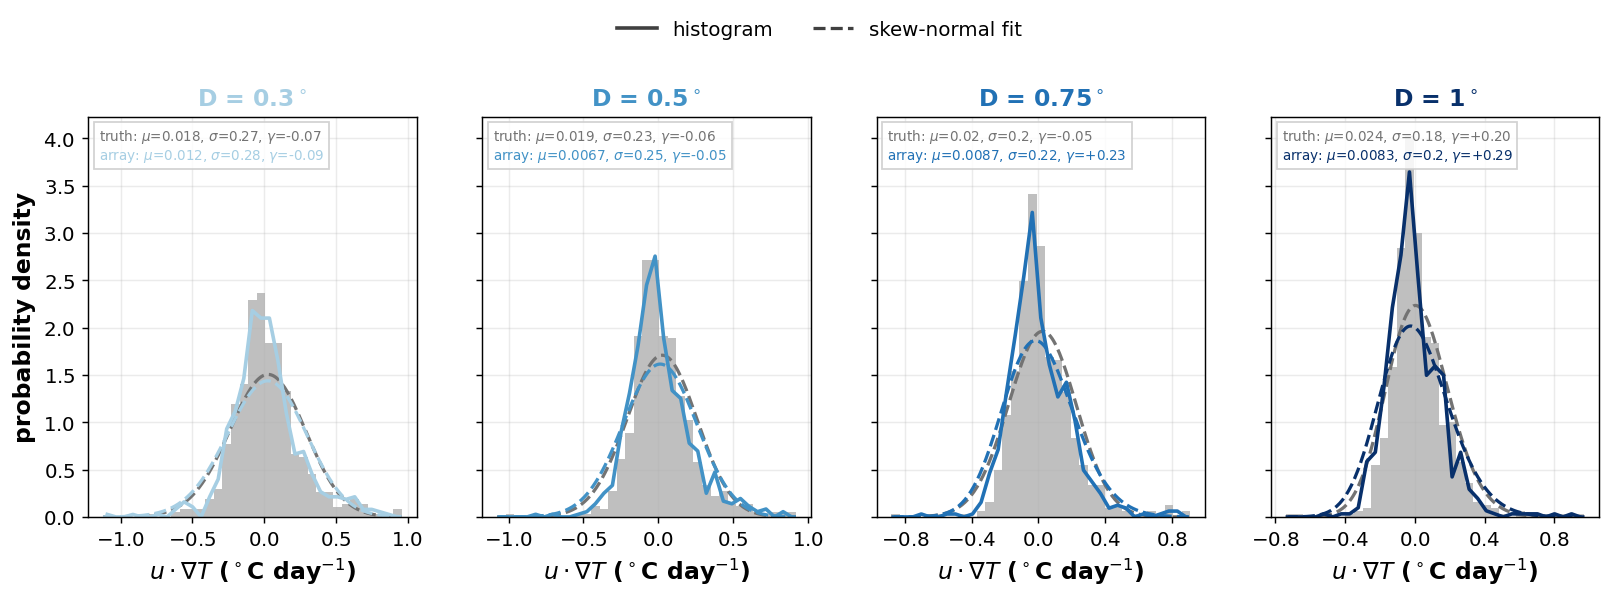
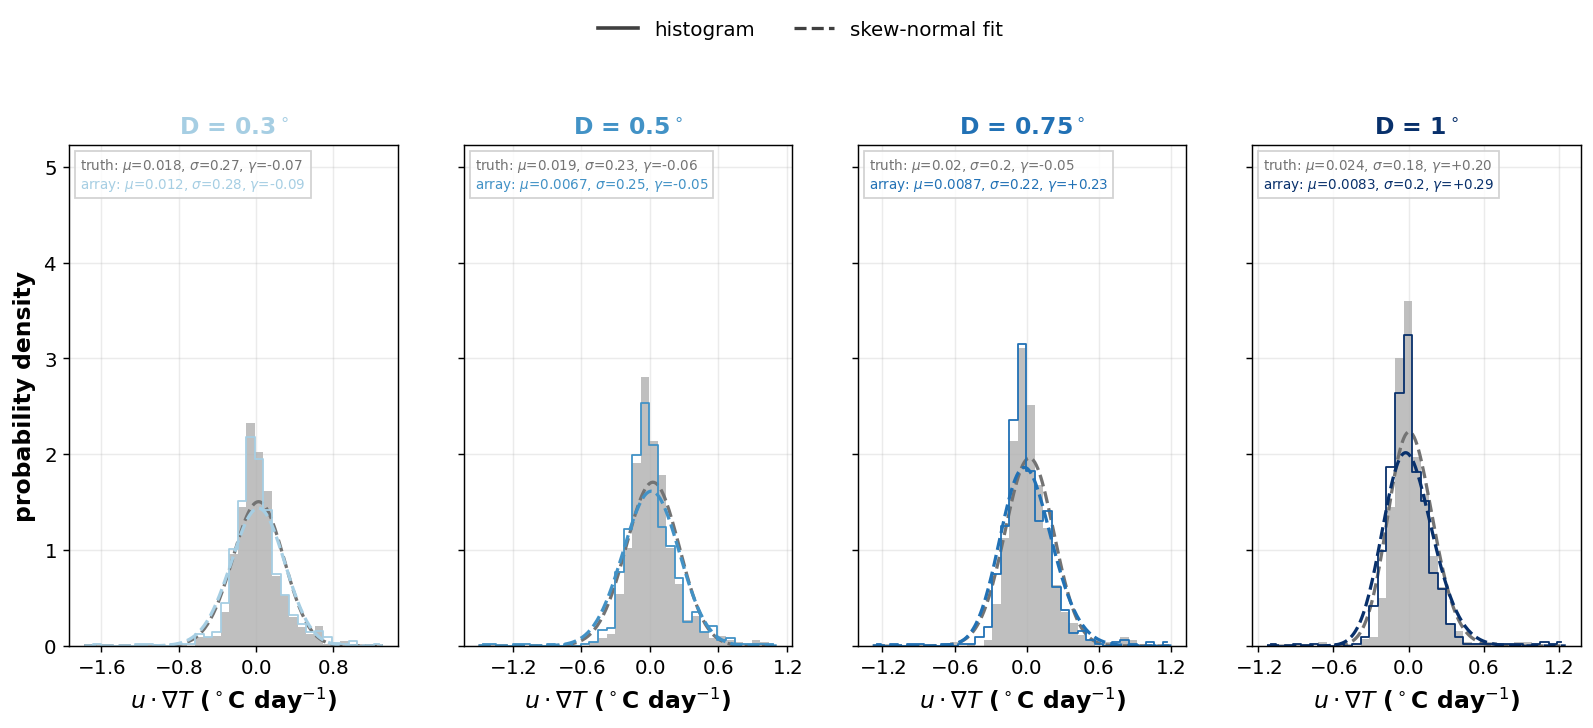
updating pdf figures

Changed region(s): [[0.0, 0.1503, 1.0, 0.9917], [0.3691, 0.0301, 0.646, 0.0601]]

diff --git a/sampling_dynamics_control_volume/run_pdfs.py b/sampling_dynamics_control_volume/run_pdfs.py
@@ -12,7 +12,8 @@ Per shape (distributions/<shape>/):
 
 Cross-shape (distributions/compare/):
   convergence.png                 JS(obs,truth) vs D, one line per SHAPE, for w and heat flux.
-  w_pdfs.png / heating_pdfs.png   truth + one fit per shape, one panel per D.
+  w_pdfs.png                      truth + one fit per shape, one panel per D.
+  heating_{horiz,vert,total}_pdfs.png  same, one figure per advective-heating component.
 """
 
 import os
@@ -48,13 +49,14 @@ def _face(ds, which, f, z):
 # ---------------------------------------------------------------- per-shape: w / hflux PDFs
 def fig_series_pdfs(out, shape, kind, z, unit, fname, scale=1.0):
     getter = _getter(kind)
-    fig, axes = plt.subplots(1, len(C.DIAMETERS), figsize=(15, 4), sharey=True)
+    fig, axes = plt.subplots(1, len(C.DIAMETERS), figsize=(15, 5), sharey=True)
     for ax, d in zip(np.ravel(axes), C.DIAMETERS):
         ds = P.load_ocv(d, shape)
         series = [('truth', getter(ds, 'true', z) * scale, TRUTH_COL),
                   ('array', getter(ds, 'obs', z) * scale, C.diam_color(d))]
         P.series_pdf_panel(ax, series, unit)
         ax.set_title(f'D = {d:g}$^\\circ$', color=C.diam_color(d))
+    P.raise_pdf_headroom(axes, n_series=2)
     axes[0].set_ylabel('probability density')
     fig.legend(handles=_STYLE, loc='upper center', ncol=2, frameon=False,
                bbox_to_anchor=(0.5, 1.10))
@@ -86,7 +88,7 @@ def fig_volmean(out, shape, z, tag):
     specs = [('T', '$^\\circ$C'), ('S', 'g kg$^{-1}$'),
              ('U', 'm s$^{-1}$'), ('V', 'm s$^{-1}$')]
     nrow, ncol = len(specs), len(C.DIAMETERS)
-    fig, axes = plt.subplots(nrow, ncol, figsize=(3.4 * ncol, 2.7 * nrow), squeeze=False)
+    fig, axes = plt.subplots(nrow, ncol, figsize=(3.4 * ncol, 3.2 * nrow), squeeze=False)
     for i, (v, unit) in enumerate(specs):
         for j, d in enumerate(C.DIAMETERS):
             ax = axes[i][j]
@@ -97,6 +99,7 @@ def fig_volmean(out, shape, z, tag):
             if i == 0:
                 ax.set_title(f'D = {d:g}$^\\circ$', color=C.diam_color(d))
         axes[i][0].set_ylabel(f'{v}  ({unit})')
+    P.raise_pdf_headroom(axes, n_series=2)
     fig.legend(handles=_STYLE, loc='upper center', ncol=2, frameon=False,
                bbox_to_anchor=(0.5, 1.01))
     fig.tight_layout(rect=(0, 0, 1, 0.98))
@@ -109,7 +112,7 @@ def fig_face_pdfs(out, shape, z, tag):
     nf = P.load_ocv(C.DIAMETERS[0], shape).sizes['face']
     ncol = len(C.DIAMETERS)
     unit = 'outward current (m s$^{-1}$)'
-    fig, axes = plt.subplots(nf, ncol, figsize=(3.4 * ncol, 2.5 * nf), squeeze=False)
+    fig, axes = plt.subplots(nf, ncol, figsize=(3.4 * ncol, 3.0 * nf), squeeze=False)
     for f in range(nf):
         for j, d in enumerate(C.DIAMETERS):
             ax = axes[f][j]
@@ -122,6 +125,7 @@ def fig_face_pdfs(out, shape, z, tag):
         b = np.degrees(np.arctan2(float(P.load_ocv(C.DIAMETERS[0], shape).face_lat.isel(face=f)),
                                   float(P.load_ocv(C.DIAMETERS[0], shape).face_lon.isel(face=f)) - 220))
         axes[f][0].set_ylabel(f'face {f}  ({b:+.0f}$^\\circ$)')
+    P.raise_pdf_headroom(axes, n_series=2)
     fig.legend(handles=_STYLE, loc='upper center', ncol=2, frameon=False,
                bbox_to_anchor=(0.5, 1.01))
     fig.tight_layout(rect=(0, 0, 1, 0.98))
@@ -148,17 +152,22 @@ def fig_convergence_compare(out, z=BASE):
 
 
 # ---------------------------------------------------------------- cross-shape: PDFs per D
-def fig_series_pdfs_compare(out, kind, z, unit, fname, scale=1.0):
-    getter = _getter(kind)
-    fig, axes = plt.subplots(1, len(C.DIAMETERS), figsize=(15, 4), sharey=True)
+def fig_series_pdfs_compare(out, kind, z, unit, fname, scale=1.0, comp='total'):
+    """Cross-shape temporal PDFs, one panel per D: pooled truth + one obs distribution per
+    shape. For kind='heat', `comp` selects the advective-heating component (horiz/vert/total)."""
+    def getter(ds, which):
+        return (P.heat_series(ds, which, z, comp) if kind == 'heat'
+                else _getter(kind)(ds, which, z))
+    fig, axes = plt.subplots(1, len(C.DIAMETERS), figsize=(15, 5), sharey=True)
     for ax, d in zip(np.ravel(axes), C.DIAMETERS):
         # truths across shapes nearly coincide -> pool into one reference distribution
-        pooled = np.concatenate([getter(P.load_ocv(d, s), 'true', z) for s in C.SHAPES]) * scale
+        pooled = np.concatenate([getter(P.load_ocv(d, s), 'true') for s in C.SHAPES]) * scale
         series = [('truth', pooled, TRUTH_COL)]
-        series += [(C.SHAPE_LABEL[s], getter(P.load_ocv(d, s), 'obs', z) * scale, C.SHAPE_COLOR[s])
+        series += [(C.SHAPE_LABEL[s], getter(P.load_ocv(d, s), 'obs') * scale, C.SHAPE_COLOR[s])
                    for s in C.SHAPES]
         P.series_pdf_panel(ax, series, unit)
         ax.set_title(f'D = {d:g}$^\\circ$')
+    P.raise_pdf_headroom(axes, n_series=1 + len(C.SHAPES))
     axes[0].set_ylabel('probability density')
     fig.legend(handles=_STYLE, loc='upper center', ncol=2, frameon=False,
                bbox_to_anchor=(0.5, 1.10))
@@ -178,8 +187,12 @@ def main():
     cmp = P.outdir('distributions', 'compare')
     fig_convergence_compare(cmp)
     fig_series_pdfs_compare(cmp, 'w', BASE, 'area-averaged w (m day$^{-1}$)', 'w_pdfs.png')
-    fig_series_pdfs_compare(cmp, 'heat', BASE,
-                            '$u\\cdot\\nabla T$ ($^\\circ$C day$^{-1}$)', 'heating_pdfs.png')
+    # advective-heating PDFs, one figure per component (horizontal / vertical / total)
+    for comp, sym, fn in [('horiz', 'u_h\\cdot\\nabla_h T', 'heating_horiz_pdfs.png'),
+                          ('vert', 'w\\,\\partial_z T', 'heating_vert_pdfs.png'),
+                          ('total', 'u\\cdot\\nabla T', 'heating_total_pdfs.png')]:
+        fig_series_pdfs_compare(cmp, 'heat', BASE,
+                                f'${sym}$ ($^\\circ$C day$^{{-1}}$)', fn, comp=comp)
     print('wrote distribution figures -> distributions/<shape>/ and distributions/compare/')
 
 

diff --git a/sampling_dynamics_control_volume/run_budget.py b/sampling_dynamics_control_volume/run_budget.py
@@ -26,6 +26,9 @@ HEAT_COMPS = [('horiz', 'horizontal  $u\\cdot\\nabla_h T$'),
               ('vert', 'vertical  $w\\,\\partial_z T$'),
               ('total', 'total  $u\\cdot\\nabla T$')]
 HEAT_UNIT = '$^\\circ$C day$^{-1}$'
+# W/m^2 variant: the heating RATE integrates vertically to a heat flux (rho0 cp int u.gradT dz,
+# cumulative from the 8 m top of the observed column) -- see cv_plot.adv_heating_flux_da.
+HEAT_FLUX_UNIT = 'W m$^{-2}$'
 
 
 def _profile(ds, var, which):
@@ -78,34 +81,40 @@ def fig_profiles_compare(out, var, scale, xlabel, fname):
     return P.finish(fig, os.path.join(out, fname))
 
 
-def _heat_prof(ds, which, comp):
-    m = P.adv_heating_da(ds, which, comp).mean('time')
+def _heat_prof(ds, which, comp, flux=False):
+    da = P.adv_heating_flux_da(ds, which, comp) if flux else P.adv_heating_da(ds, which, comp)
+    m = da.mean('time')
     return m.values, m['obs_depth'].values
 
 
-def fig_heating_profiles(out, shape):
+def fig_heating_profiles(out, shape, flux=False):
     """Per-shape: time-mean advective-heating profiles, one panel per component
-    (horizontal / vertical / total), all diameters overlaid (truth dotted, obs solid)."""
+    (horizontal / vertical / total), all diameters overlaid (truth dotted, obs solid).
+    flux=True -> the depth-cumulative heat flux [W/m^2] instead of the rate [degC/day]."""
+    unit = HEAT_FLUX_UNIT if flux else HEAT_UNIT
     fig, axes = plt.subplots(1, 3, figsize=(13.5, 6.2), sharey=True)
     for ax, (comp, title) in zip(axes, HEAT_COMPS):
         for d in C.DIAMETERS:
             ds = P.load_ocv(d, shape)
-            vt, z = _heat_prof(ds, 'true', comp)
-            vo, _ = _heat_prof(ds, 'obs', comp)
+            vt, z = _heat_prof(ds, 'true', comp, flux)
+            vo, _ = _heat_prof(ds, 'obs', comp, flux)
             ax.plot(vt, z, color=C.diam_color(d), **P.TRUTH_KW)
             ax.plot(vo, z, color=C.diam_color(d), **P.OBS_KW)
         ax.axvline(0, color='0.7', lw=1)
         ax.set_title(title)
-        ax.set_xlabel(HEAT_UNIT)
+        ax.set_xlabel(unit)
         P.tidy_x(ax, 4)
     axes[0].set_ylabel('depth (m)')
     P.top_legend(fig, diam=True, method=True, y=1.05)
-    return P.finish(fig, os.path.join(out, 'heating_profiles.png'))
+    fname = 'heating_profiles_wm2.png' if flux else 'heating_profiles.png'
+    return P.finish(fig, os.path.join(out, fname))
 
 
-def fig_heating_profiles_compare(out):
+def fig_heating_profiles_compare(out, flux=False):
     """Cross-shape: advective-heating profiles, rows = component (horizontal / vertical /
-    total), cols = diameter; the three shapes overlaid (truth dotted, obs solid)."""
+    total), cols = diameter; the three shapes overlaid (truth dotted, obs solid).
+    flux=True -> the depth-cumulative heat flux [W/m^2] instead of the rate [degC/day]."""
+    unit = HEAT_FLUX_UNIT if flux else HEAT_UNIT
     short = {'horiz': 'horizontal', 'vert': 'vertical', 'total': 'total'}
     nr, nc = len(HEAT_COMPS), len(C.DIAMETERS)
     fig, axes = plt.subplots(nr, nc, figsize=(3.6 * nc, 4.0 * nr), sharey=True)
@@ -114,8 +123,8 @@ def fig_heating_profiles_compare(out):
             ax = axes[r][cidx]
             for shape in C.SHAPES:
                 ds = P.load_ocv(d, shape)
-                vt, z = _heat_prof(ds, 'true', comp)
-                vo, _ = _heat_prof(ds, 'obs', comp)
+                vt, z = _heat_prof(ds, 'true', comp, flux)
+                vo, _ = _heat_prof(ds, 'obs', comp, flux)
                 ax.plot(vt, z, color=C.SHAPE_COLOR[shape], **P.TRUTH_KW)
                 ax.plot(vo, z, color=C.SHAPE_COLOR[shape], **P.OBS_KW)
             ax.axvline(0, color='0.7', lw=1)
@@ -123,10 +132,11 @@ def fig_heating_profiles_compare(out):
             if r == 0:
                 ax.set_title(f'D = {d:g}$^\\circ$')
             if r == nr - 1:
-                ax.set_xlabel(HEAT_UNIT)
+                ax.set_xlabel(unit)
         axes[r][0].set_ylabel(f'{short[comp]}\ndepth (m)')
     P.shape_top_legend(fig, method=True, y=1.02)
-    return P.finish(fig, os.path.join(out, 'heating_profiles.png'))
+    fname = 'heating_profiles_wm2.png' if flux else 'heating_profiles.png'
+    return P.finish(fig, os.path.join(out, fname))
 
 
 def fig_budget_closure(out, shape):
@@ -203,12 +213,14 @@ def main():
         out = P.outdir('budget', shape)
         fig_profiles(out, shape, 'w', C.SEC_PER_DAY, 'area-averaged w (m day$^{-1}$)',
                      'w_profiles.png')
-        fig_heating_profiles(out, shape)
+        fig_heating_profiles(out, shape)                 # degC/day
+        fig_heating_profiles(out, shape, flux=True)      # W/m^2 (depth-cumulative)
         fig_budget_closure(out, shape)
     cmp = P.outdir('budget', 'compare')
     fig_profiles_compare(cmp, 'w', C.SEC_PER_DAY, 'area-averaged w (m day$^{-1}$)',
                          'w_profiles.png')
-    fig_heating_profiles_compare(cmp)
+    fig_heating_profiles_compare(cmp)                    # degC/day
+    fig_heating_profiles_compare(cmp, flux=True)         # W/m^2 (depth-cumulative)
     fig_budget_error_compare(cmp)
     print('wrote budget figures -> budget/<shape>/ and budget/compare/')
 

diff --git a/sampling_dynamics_control_volume/cv_plot.py b/sampling_dynamics_control_volume/cv_plot.py
@@ -100,6 +100,29 @@ def adv_heating_da(ds, which, comp='total'):
     return adv_heating_vert_da(ds, which) + adv_heating_horiz_da(ds, which)
 
 
+def adv_heating_flux_da(ds, which, comp='total'):
+    """Advective heating expressed as a depth-cumulative heat FLUX [W/m^2]. Per the repo
+    convention (osse_tools.advective_heating) a heating RATE integrates vertically to a flux,
+    F(z) = rho0*cp * int_{top}^{z} (u.grad T) dz'. We undo the per-day scaling (-> degC/s),
+    multiply by HFLUX (rho0*cp) and cumulative-trapezoid down from the shallowest observed
+    depth (8 m). Sign follows the heating rate (positive = net warming of the column above z);
+    comp in {'vert','horiz','total'}."""
+    h = adv_heating_da(ds, which, comp).transpose('time', 'obs_depth') / SEC_PER_DAY  # degC/s
+    # keep the OBSERVED column only: the OCV-mean T (hence w.dT/dz, and its dT/dz stencil one
+    # point deeper) is undefined in the top ~8 m, so drop those near-surface NaN levels and
+    # integrate the flux cumulatively from the top of the observed column downward.
+    h = h.dropna('obs_depth', how='all')
+    z = h['obs_depth'].values                                # metres, negative downward
+    order = np.argsort(-z)                                    # shallow (near-surface) -> deep
+    zc, vals = z[order], h.values[:, order]                  # (time, nz) shallow->deep
+    zeta = -zc                                               # depth below surface, ascending
+    integ = np.zeros_like(vals)
+    integ[:, 1:] = np.cumsum(0.5 * (vals[:, 1:] + vals[:, :-1]) * np.diff(zeta), axis=1)
+    F = xr.DataArray(C.HFLUX * integ, dims=('time', 'obs_depth'),
+                     coords={'time': h['time'].values, 'obs_depth': zc})
+    return F.sortby('obs_depth')
+
+
 def dTdt_da(ds, which):
     """OCV volume-mean temperature tendency d<T>/dt [degC/day] (centred time difference)."""
     T = ds[f'Tbar_{which}']
@@ -142,12 +165,15 @@ def step_pdf(ax, x, edges, color, ls, lw=1.9):
     ax.plot(c, h, color=color, ls=ls, lw=lw)
 
 
-def common_edges(samples, nbins=34, pad=(0.5, 99.5)):
-    """Shared bin edges spanning several 1-D samples (percentile-clipped)."""
+def common_edges(samples, nbins=34, pad=(0.1, 99.9), margin=0.03):
+    """Shared bin edges spanning several 1-D samples. Clips only the extreme tails
+    (default 0.1/99.9 pct, ~1 outlier of a few hundred) then adds a small margin so the
+    histogram/fit tails don't run off the frame."""
     both = np.concatenate([np.asarray(s).ravel() for s in samples])
     both = both[np.isfinite(both)]
     lo, hi = np.nanpercentile(both, pad[0]), np.nanpercentile(both, pad[1])
-    return np.linspace(lo, hi, nbins)
+    span = hi - lo
+    return np.linspace(lo - margin * span, hi + margin * span, nbins)
 
 
 def overlay_pdf_panel(ax, series, unit, color_fn=C.diam_color):
@@ -207,7 +233,7 @@ def series_pdf_panel(ax, series, unit, nbins=36, box=True):
             ax.hist(s, bins=edges, density=True, color=color, alpha=0.45)  # grey shading
         else:
             h, _ = np.histogram(s, bins=edges, density=True)
-            ax.plot(centers, h, color=color, lw=2.0, ls='-')
+            ax.plot(centers, h, color=color, lw=1.0, ls='-', drawstyle='steps-mid')
         p = _skewfit_params(s)
         if p is not None:
             ax.plot(xg, skewnorm.pdf(xg, *p), color=color, lw=1.8, ls='--')
@@ -218,6 +244,17 @@ def series_pdf_panel(ax, series, unit, nbins=36, box=True):
         _param_box(ax, box_lines)
     ax.set_xlabel(unit)
     tidy_x(ax)
+
+
+def raise_pdf_headroom(axes, n_series):
+    """Add top headroom to PDF panels so the upper-left fit box clears the histogram peak.
+    Call AFTER all panels are drawn (autoscale settled). Scales with the number of stacked
+    text lines (one per series). Safe with sharey (all axes share the same top)."""
+    factor = 1.12 + 0.13 * n_series
+    axs = list(np.ravel(np.asarray(axes)))
+    tops = [ax.get_ylim()[1] for ax in axs]   # read all BEFORE modifying (sharey compounds)
+    for ax, top in zip(axs, tops):
+        ax.set_ylim(top=top * factor)
 
 
 def pdf_panel(ax, obs, truth, unit, nbins=36):

diff --git a/sampling_dynamics_control_volume/README.md b/sampling_dynamics_control_volume/README.md
@@ -113,8 +113,8 @@ diagnostics, so the loaders match the point-cloud study.
 | script | per-shape (`<cat>/<shape>/`) | cross-shape (`<cat>/compare/`) |
 |--------|------------------------------|--------------------------------|
 | `run_faces.py`  | `layout.png` (inscribed circle, polygon, gliders, normals, **numbered faces**); per-face current & anomaly-heat-flux `u_n(T−⟨T⟩)` profiles, all D overlaid; `midpoint_error.png` = per-face normalized **RMSE (row 1) + signed bias (row 2)** vs D | `midpoint_error.png` = **4 rows** × (current, anomaly heat flux): RMSE face-mean, RMSE per-face, bias face-mean, bias per-face. Shapes green/red/blue; individual faces by **line opacity** |
-| `run_budget.py` | `w_profiles.png`; `heating_profiles.png` = advective heating (**horizontal / vertical / total** panels) [°C/day], truth vs obs, all D; `budget_closure.png` = advective tendency vs actual `∂ₜ⟨T⟩` | `w_profiles.png` & `heating_profiles.png` (3 shapes overlaid); `error_vs_D.png` = normalized **RMSE + bias** of integrated w / total advective heating (obs vs truth, observed 8–80 m) vs D, one line per shape |
-| `run_pdfs.py`   | `w_pdfs.png` / `heating_pdfs.png` (panel per D); `convergence.png` (JS vs D, base+mid depth); `volmean_pdfs_{30m,70m}.png` (T,S,U,V rows × D cols); `face_pdfs_{30m,70m}.png` (face rows × D cols) | `convergence.png` (JS vs D, one line per shape); `w_pdfs.png` / `heating_pdfs.png` (truth + one fit per shape, panel per D) |
+| `run_budget.py` | `w_profiles.png`; `heating_profiles.png` = advective heating (**horizontal / vertical / total** panels) [°C/day], truth vs obs, all D; `heating_profiles_wm2.png` = same in **W/m²** (depth-cumulative flux `ρ₀cp·∫u·∇T dz`, from the 8 m top of the observed column); `budget_closure.png` = advective tendency vs actual `∂ₜ⟨T⟩` | `w_profiles.png` & `heating_profiles.png` & `heating_profiles_wm2.png` (3 shapes overlaid); `error_vs_D.png` = normalized **RMSE + bias** of integrated w / total advective heating (obs vs truth, observed 8–80 m) vs D, one line per shape |
+| `run_pdfs.py`   | `w_pdfs.png` / `heating_pdfs.png` (panel per D); `convergence.png` (JS vs D, base+mid depth); `volmean_pdfs_{30m,70m}.png` (T,S,U,V rows × D cols); `face_pdfs_{30m,70m}.png` (face rows × D cols) | `convergence.png` (JS vs D, one line per shape); `w_pdfs.png` (truth + one fit per shape, panel per D); `heating_{horiz,vert,total}_pdfs.png` (same, one figure per advective-heating component) |
 
 **PDF style:** the truth is drawn as **grey filled shading**, each estimate as a **solid
 histogram line**, and every distribution's **dashed skew-normal fit**; a single upper-left box
